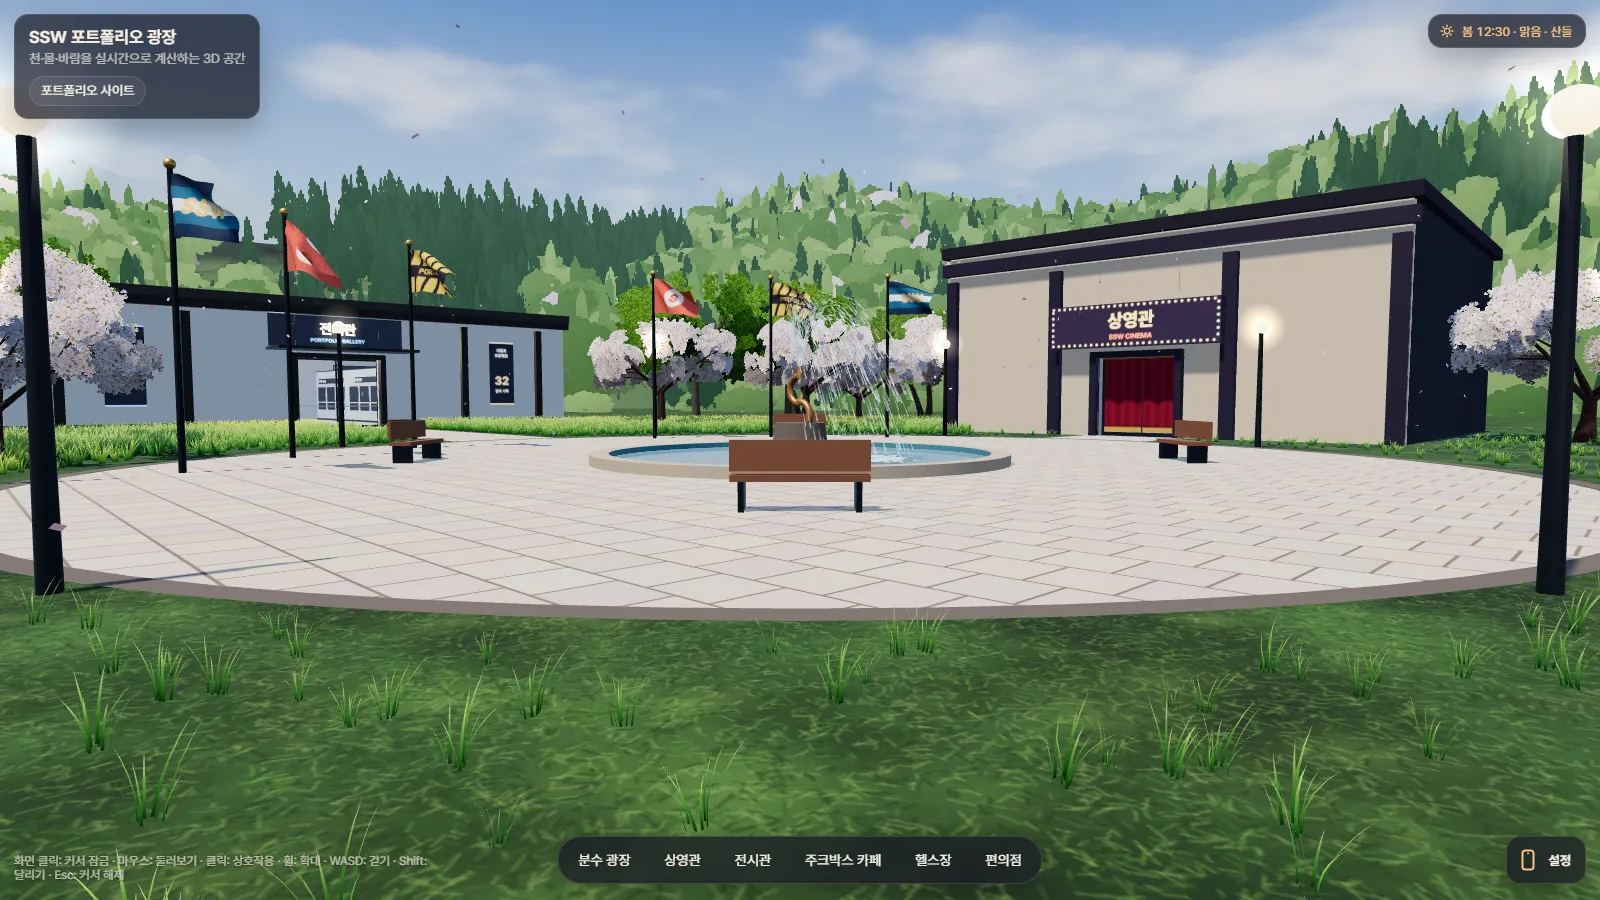
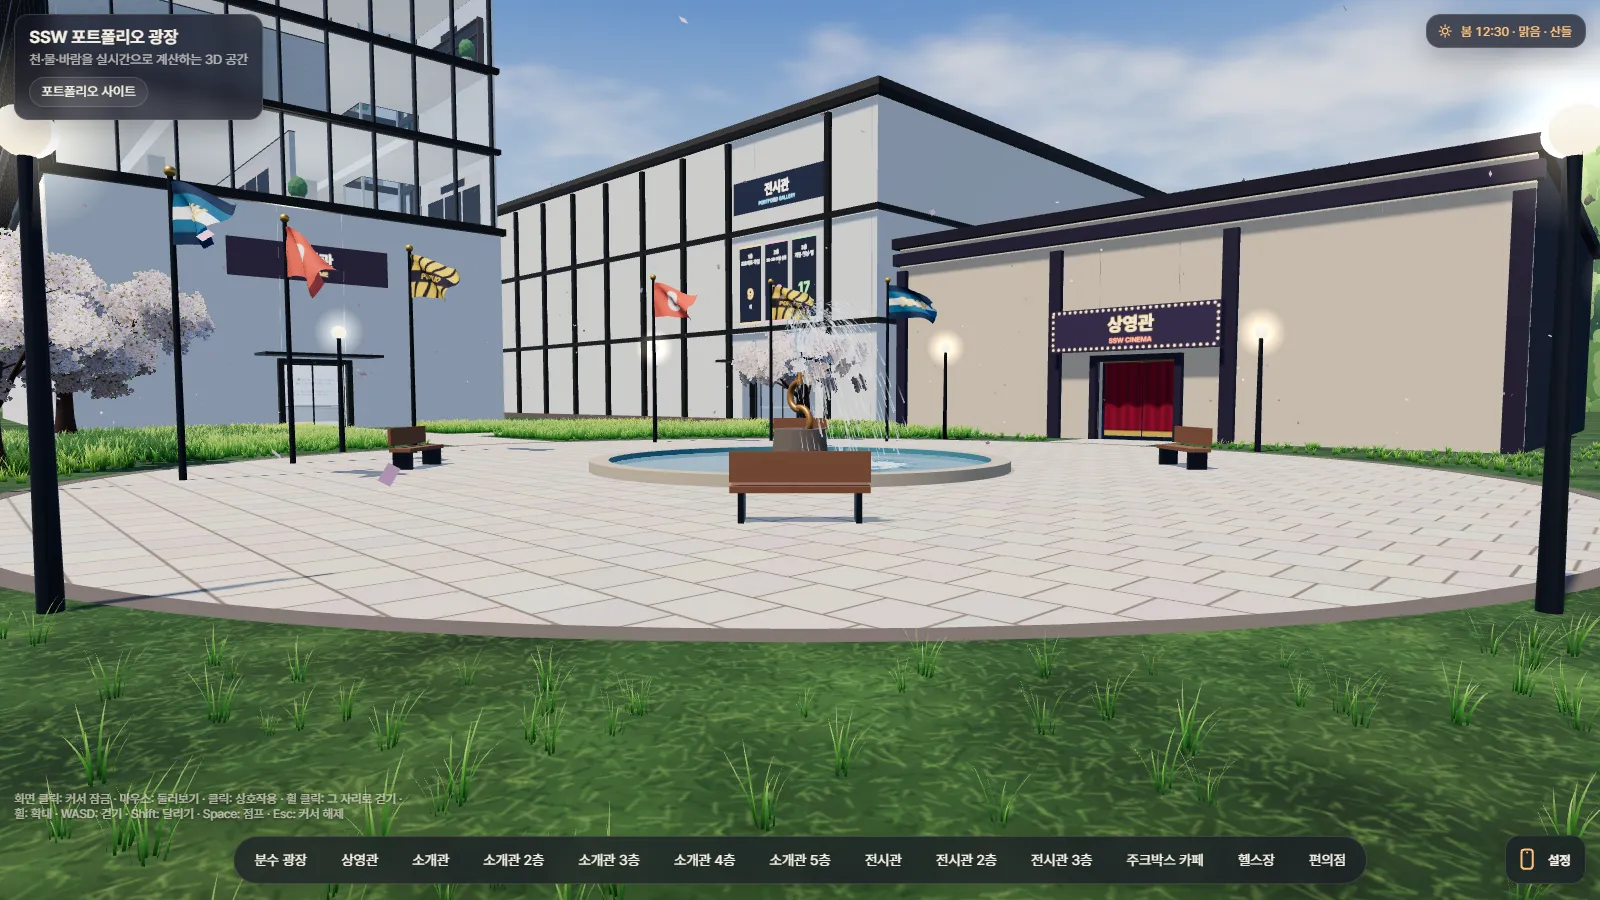
feat(experiments): retake the plaza photo and split project descriptions into paragraphs
- Replace the plaza showcase's first photo with the rebuilt intro hall,
  gallery and cinema, and add a note on how the plaza was built.
- Break the archive and collaboration project descriptions after their
  opening sentence and keep the line breaks in the archive cards.

diff --git a/web/src/features/overview/data/about.ts b/web/src/features/overview/data/about.ts
@@ -126,7 +126,7 @@ export const aboutArchiveProjects: AboutArchiveProject[] = [
     id: 'archive-canvas-dodge-game',
     title: 'Canvas 피하기 게임',
     category: 'Canvas Game',
-    desc: 'HTML Canvas와 JavaScript로 만든 브라우저 게임입니다. 방향키로 캐릭터를 움직여 장애물을 피하며 생존 시간을 기록합니다. 당시 작성한 단일 HTML 파일을 그대로 실행할 수 있습니다.',
+    desc: 'HTML Canvas와 JavaScript로 만든 브라우저 게임입니다.\n\n방향키로 캐릭터를 움직여 장애물을 피하며 생존 시간을 기록합니다. 당시 작성한 단일 HTML 파일을 그대로 실행할 수 있습니다.',
     status: '단일 HTML 원본 실행',
     tags: ['HTML', 'Canvas', 'JavaScript'],
     preview: {
@@ -155,7 +155,7 @@ export const aboutArchiveProjects: AboutArchiveProject[] = [
     id: 'archive-wpf-excel-row-mapper',
     title: '엑셀 행 매핑 WPF 앱',
     category: 'WPF Desktop App',
-    desc: '반복적인 엑셀 작업의 생산성을 높이기 위해 만든 데스크톱 앱입니다. 정부24에서 조회한 토지대장 정보를 주소·지번 기준으로 원본 엑셀 행에 매핑해 누락 정보를 채우는 WinForms 프로토타입을 만든 뒤, WPF 기반의 MVVM 구조로 전환해 실제 작업에 사용했습니다.',
+    desc: '반복적인 엑셀 작업의 생산성을 높이기 위해 만든 데스크톱 앱입니다.\n\n정부24에서 조회한 토지대장 정보를 주소·지번 기준으로 원본 엑셀 행에 매핑해 누락 정보를 채우는 WinForms 프로토타입을 만든 뒤, WPF 기반의 MVVM 구조로 전환해 실제 작업에 사용했습니다.',
     status: '실사용 화면 보관',
     tags: ['C#', 'WPF', 'MVVM', 'Excel'],
     preview: {
@@ -179,7 +179,7 @@ export const aboutArchiveProjects: AboutArchiveProject[] = [
     id: 'archive-android-ar-campfire',
     title: 'Android AR 캠프파이어 앱',
     category: 'Android AR',
-    desc: 'VR/AR 콘텐츠 개발 과정(메디치이앤에스) 수강 중 제작한 Android AR 앱입니다. 현실 공간에 가상의 캠프파이어를 배치하고 점화하는 과정을 시연 영상과 이미지로 담았습니다.',
+    desc: 'VR/AR 콘텐츠 개발 과정(메디치이앤에스) 수강 중 제작한 Android AR 앱입니다.\n\n현실 공간에 가상의 캠프파이어를 배치하고 점화하는 과정을 시연 영상과 이미지로 담았습니다.',
     status: 'VR/AR 콘텐츠 개발 과정 제작 · 시연 영상·화면 보관',
     tags: ['Android', 'AR', 'Mobile'],
     wide: true,
@@ -226,7 +226,7 @@ export const aboutProjects: AboutProject[] = [
     id: 'project-common-infrastructure',
     title: '공용 인프라 프로젝트군',
     category: 'Shared Infrastructure',
-    desc: '여러 프로젝트에서 반복해서 필요한 인증·채팅·파일·미디어·알림·분석 기능을 공용 구성 요소로 분리했습니다. 게이트웨이·설정·스케줄링·관측 기능도 함께 구성했습니다.',
+    desc: '여러 프로젝트에서 반복해서 필요한 인증·채팅·파일·미디어·알림·분석 기능을 공용 구성 요소로 분리했습니다.\n\n게이트웨이·설정·스케줄링·관측 기능도 함께 구성했습니다.',
     status: '설계 문서 공개',
     gallery: {
       images: [
@@ -260,7 +260,7 @@ export const aboutProjects: AboutProject[] = [
     id: 'project-ecommerce-demo',
     title: '이커머스 데모',
     category: 'Commerce Demo',
-    desc: '상품 조회, 장바구니, 주문, 관리자 기능을 구현한 이커머스 데모입니다. 실제 결제 기능은 포함하지 않았으며, 배너와 상품 이미지는 SI 도구로 제작했습니다.',
+    desc: '상품 조회, 장바구니, 주문, 관리자 기능을 구현한 이커머스 데모입니다.\n\n실제 결제 기능은 포함하지 않았으며, 배너와 상품 이미지는 SI 도구로 제작했습니다.',
     status: '데모·설계 문서 공개',
     gallery: {
       images: [
@@ -356,7 +356,7 @@ export const aboutProjects: AboutProject[] = [
     id: 'project-asset-library',
     title: 'SSW Asset Library',
     category: 'Agent-connected Asset Library',
-    desc: '이미지·3D 모델·음원·문서를 에셋 단위로 묶고 버전과 제작 기록을 함께 관리하는 개인용 웹 라이브러리입니다. 자료 검색과 파일 미리보기, 그룹·참조 맵, 버전 백업과 복원을 제공합니다. MCP를 통해 SI 에이전트의 에셋 검색·등록·다운로드와 제작 기록 관리 작업을 연결했습니다.',
+    desc: '이미지·3D 모델·음원·문서를 에셋 단위로 묶고 버전과 제작 기록을 함께 관리하는 개인용 웹 라이브러리입니다.\n\n자료 검색과 파일 미리보기, 그룹·참조 맵, 버전 백업과 복원을 제공합니다. MCP를 통해 SI 에이전트의 에셋 검색·등록·다운로드와 제작 기록 관리 작업을 연결했습니다.',
     status: '실행 화면 공개',
     gallery: {
       images: [

diff --git a/web/src/features/experiments/data/agentExperimentNavigation.ts b/web/src/features/experiments/data/agentExperimentNavigation.ts
@@ -66,12 +66,13 @@ export const AGENT_EXPERIMENT_SHOWCASE = {
   description: [
     '이 사이트의 내용을 걸어 다니며 둘러보는 3D 공간입니다. 전시관에는 작품과 소개가 걸려 있고, 상영관에서는 실험 영상을, 카페 주크박스에서는 직접 만든 음악을 들을 수 있습니다.',
     '날씨와 계절, 하루의 시간이 바뀝니다. three.js로 SI 에이전트와 함께 만들었습니다.',
+    '2026년 11월 기준으로 폴더 구조와 약간의 코드·의존성 확인을 빼면, 모든 작업을 흔히 바이브 코딩이라고 하는 방식으로 화면 캡처와 프롬프트만으로 진행했습니다.',
   ],
   url: 'https://pf-samples.sworksong.workers.dev/plaza/',
   linkLabel: '광장 둘러보기',
   note: '받는 양이 많은 편이라 와이파이에서 여는 것을 권합니다.',
   images: [
-    { src: '/images/agent-experiments/portfolio-plaza/plaza-fountain.webp', alt: '분수 광장 너머로 상영관과 전시관이 보이는 3D 포트폴리오 광장', caption: '분수 광장' },
+    { src: '/images/agent-experiments/portfolio-plaza/plaza-fountain.webp', alt: '분수 광장 너머로 소개관·전시관·상영관이 보이는 3D 포트폴리오 광장', caption: '분수 광장' },
     { src: '/images/agent-experiments/portfolio-plaza/plaza-yard-path.webp', alt: '길 양옆 울타리 안에 다연장로켓·전차·헬기 모델과 설명판이 늘어선 야외 전시장', caption: '야외 전시장' },
     { src: '/images/agent-experiments/portfolio-plaza/plaza-yard-tank.webp', alt: '울타리 안 받침 위에 놓인 주력전차 모델과 설명판', caption: '야외 전시장 · 주력전차' },
     { src: '/images/agent-experiments/portfolio-plaza/plaza-cafe-window.webp', alt: '통창 너머로 광장이 보이는 카페 안의 긴 의자와 탁자', caption: '주크박스 카페' },

diff --git a/web/src/features/projects/ui/ArchiveProjectShowcase.module.css b/web/src/features/projects/ui/ArchiveProjectShowcase.module.css
@@ -100,6 +100,7 @@
   color: var(--text-dim);
   line-height: 1.65;
   word-break: keep-all;
+  white-space: pre-line;
 }
 
 .tags {
